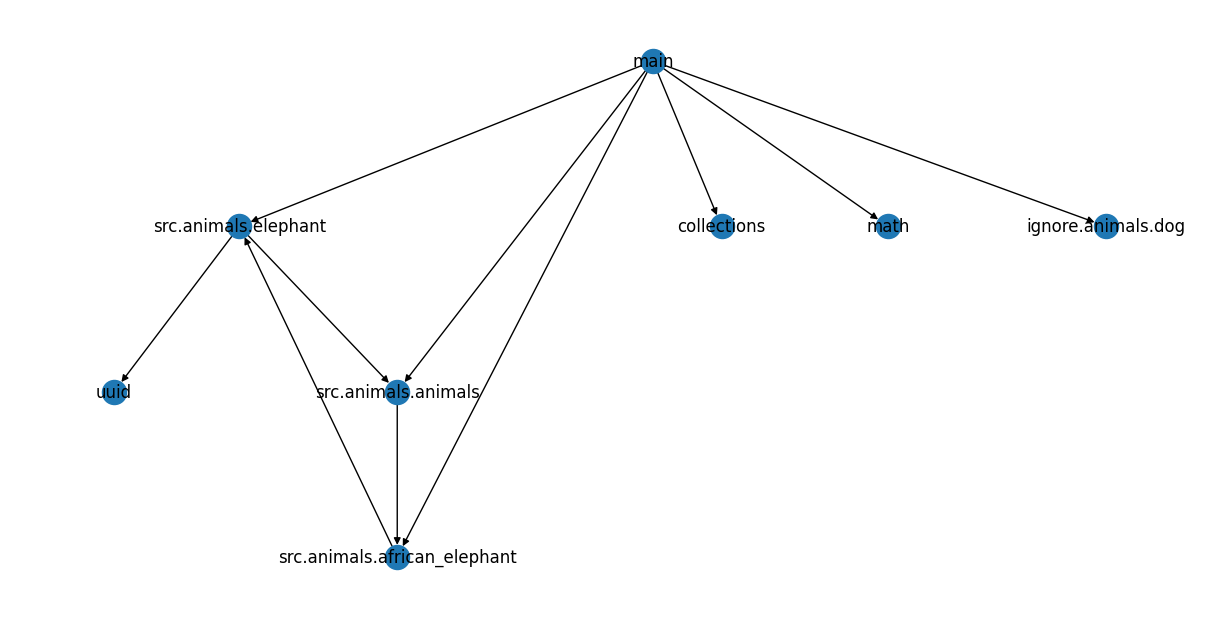
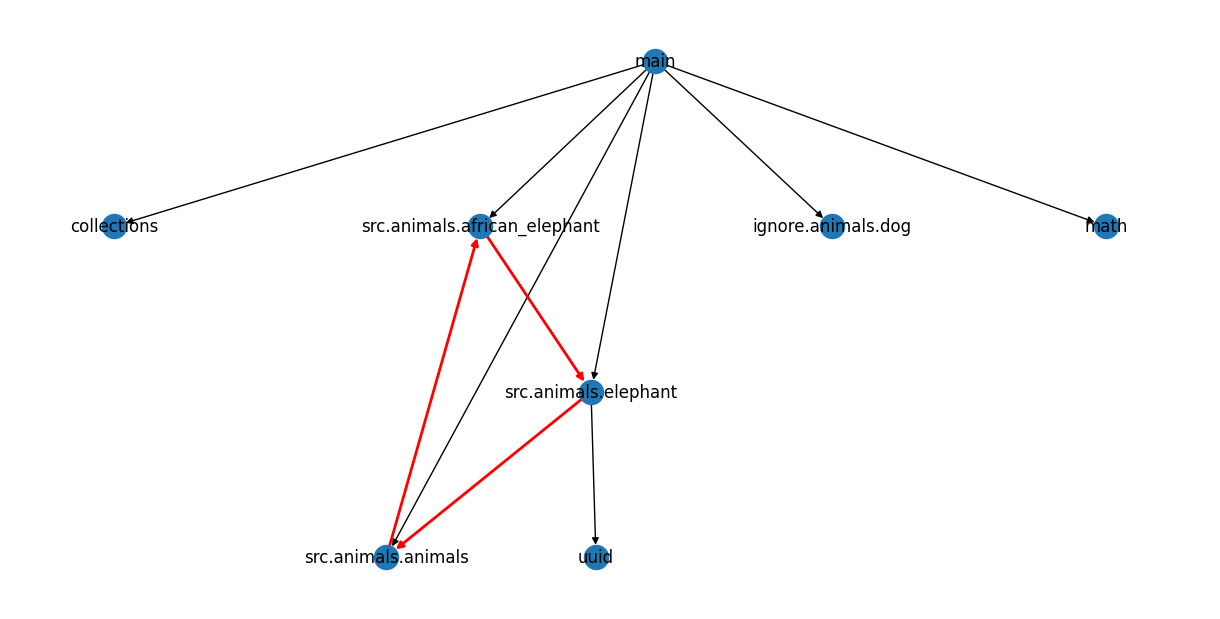
auto detection of cycle and color them

diff --git a/graph_deps.py b/graph_deps.py
@@ -6,10 +6,14 @@ import networkx as nx
 from src.grapher import Grapher
 
 
-def create_output(graph: nx.DiGraph, scalev: float, scaleh: float):
+def create_output(graph: nx.DiGraph, scalev: float, scaleh: float, colors=None, width=None):
     plt.figure(figsize=[6*scaleh, 6*scalev])
     pos = nx.nx_agraph.graphviz_layout(graph, prog="dot")
-    nx.draw(graph, pos, with_labels=True, node_shape="o")
+    if not colors:
+        colors = ["black" for _ in graph.edges]
+    if not width:
+        width = [1 for _ in graph.edges]
+    nx.draw(graph, pos, with_labels=True, node_shape="o", edge_color=colors, width=width)
     plt.savefig("output_graph.png", bbox_inches='tight', dpi=100)
 
 
@@ -40,11 +44,36 @@ if __name__ == "__main__":
     grapher = Grapher(root_folder=root, ignore_list=ignore_list)
 
     graph = grapher.get_graph()
-    if cycle_only:
+    cycle = None
+
+    try :
         cycle = nx.find_cycle(graph, orientation="original")
+    except nx.NetworkXNoCycle:
+        print("No cycle found")
+
+    if cycle_only:
+        if cycle is None:
+            print("Exiting as no cycle found")
+            exit(0)
         cycle_graph = nx.DiGraph()
         for edge in cycle:
             cycle_graph.add_edge(edge[0], edge[1])
         create_output(cycle_graph, scalev, scaleh)
     else:
-        create_output(graph, scalev, scaleh)
+        colors = None
+        widths = None
+        if cycle is not None:
+            edge_set = set()
+            for edge in cycle:
+                edge_set.add((edge[0], edge[1]))
+            print("Cycle found")
+            for edge in graph.edges:
+                if edge in edge_set:
+                    graph.edges[edge]["color"] = "red"
+                    graph.edges[edge]["penwidth"] = 2
+                else:
+                    graph.edges[edge]["color"] = "black"
+                    graph.edges[edge]["penwidth"] = 1
+            colors = nx.get_edge_attributes(graph, "color").values()
+            widths = list(nx.get_edge_attributes(graph, "penwidth").values())
+        create_output(graph, scalev, scaleh, colors=colors, width=widths)

diff --git a/README.md b/README.md
@@ -1,6 +1,8 @@
 # Dependency Grapher For Python
 
-This is a simple tool to generate a dependency graph for a Python project. It uses the `ast` module to parse the source code and extract the dependencies.
+This is a simple tool to generate a dependency graph for a Python project. It uses the `ast` module to parse the source code and extract the dependencies.<br>
+Generated graphs can be used to understand the structure of the project and identify the dependencies between different modules.<br>
+Cycle detections are highlighed using red color by the program in the generated graph automatically.
 
 ## AIM 
 
@@ -49,10 +51,10 @@ The output is a `output_graph.png` file in the current directory.
 ### Example 3 (Circular Dependency)
 
 ```bash
-python graph_deps.py -r sample_cycle -i ignore venv -sv 1 -sh 1
+python graph_deps.py -r sample_cycle -i ignore venv -sv 1 -sh 2
 ```
 
-This example covers a circular dependency. Here is the output of the full graph.
+This example covers a circular dependency. Here is the output of the full graph. The program auto identifies the circular dependencies and highlights them.
 
 #### Output
 
@@ -61,7 +63,7 @@ This example covers a circular dependency. Here is the output of the full graph.
 #### Filter Only Circular Dependencies
 
 ```bash
-python graph_deps.py -r sample_cycle -i ignore venv -sv 1 -sh 1 -c
+python graph_deps.py -r sample_cycle -i ignore venv -sv 1 -sh 2 -c
 ```
 
 The `-c` flag is used to filter only the circular dependencies.
@@ -79,7 +81,7 @@ Here is a snapshot of the tool used on a large Python project.
 
 ## Future Work
 
-- [ ] Add support to auto identify circular dependencies.
+- [x] Add support to auto identify circular dependencies.
 - [ ] Improve the graph markers and layout.
 - [ ] Add support for interactive graphs instead of static images.
 - [ ] Add support to export to Neo4j or other graph databases.
